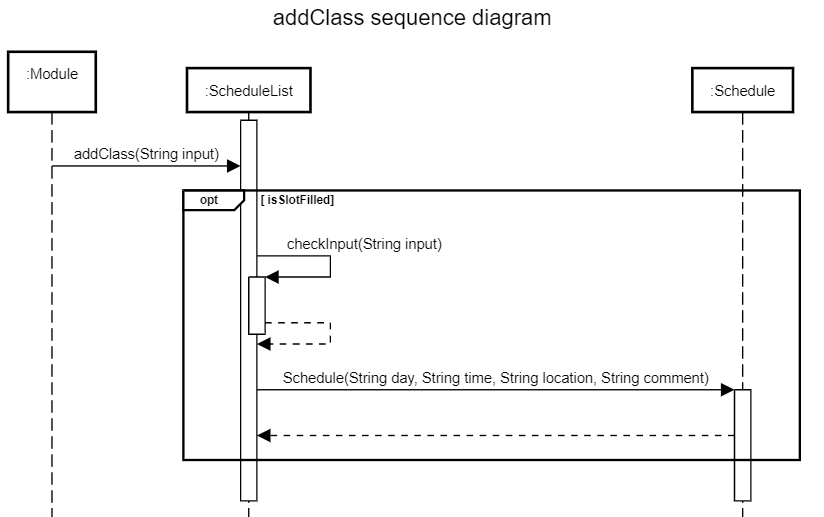
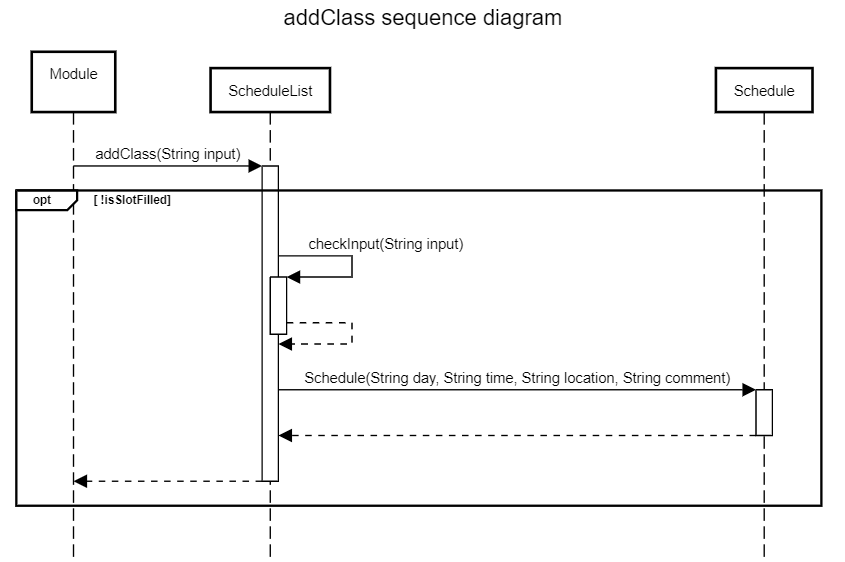
diagram changes

Changed region(s): [[0.0, 0.0619, 1.0, 0.9903], [0.3337, 0.0, 0.6675, 0.0619], [0.1517, 0.8356, 0.182, 0.8665]]

diff --git a/docs/DeveloperGuide.md b/docs/DeveloperGuide.md
@@ -199,7 +199,7 @@ How printing a timetable works:
 - If day of week and timeslot corresponds, venue and comments information is printed out
 - If day of week and timeslot does not correspond, and blank character &quot; &quot; is printed instead.
 
-# ![modulePrintTimetableSeq](media/modulePrintTimetableSeq.png)
+# ![modulePrintTimetableSeq](media/ModuleListseq.png)
 
 How printing a timetable works:
 
